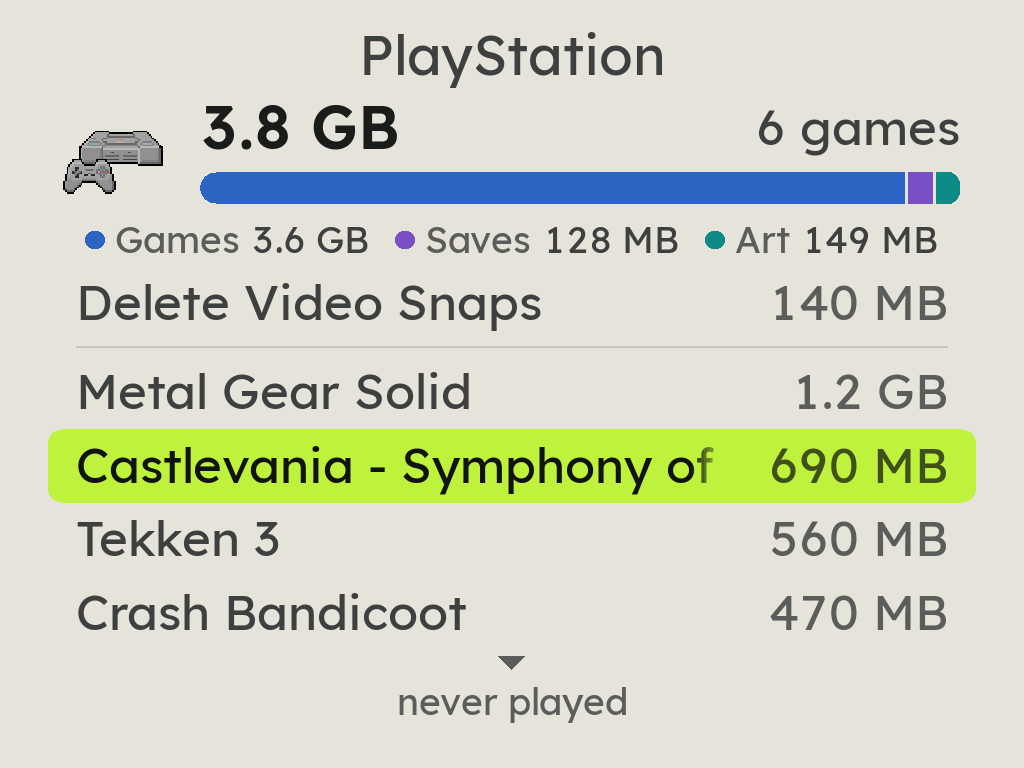
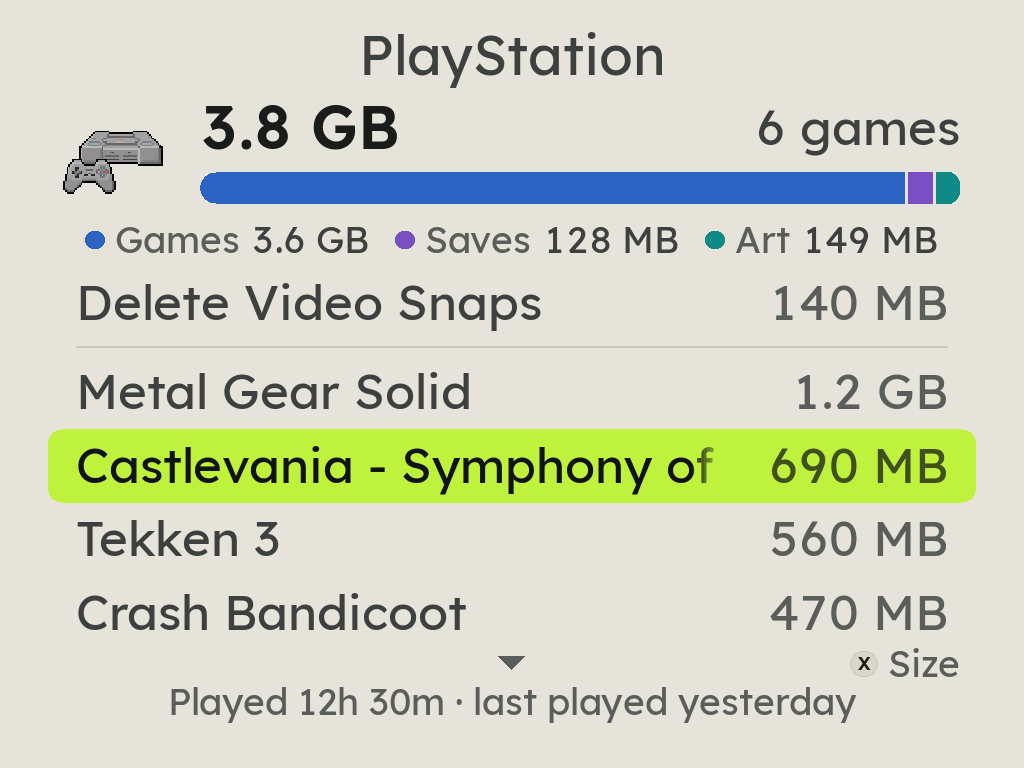
Storage's media pages and X's orders in the README, the site and DESIGN.md
A third Storage picture (Music's page), the two README shots shot again
with X's hint, and DESIGN.md 11.32's media pages and orders.

Changed region(s): [[0.1562, 0.875, 0.8438, 0.9375], [0.8438, 0.8438, 0.9375, 0.9062]]

diff --git a/site/index.html b/site/index.html
@@ -349,7 +349,7 @@
       <div><h3>Box art it finds itself</h3><p>MENU &gt; Scraper asks libretro with no account, ScreenScraper with a free one in builds that carry its developer pair, and SteamGridDB with your own key. Renamed ROMs match by checksum.</p></div>
       <div><h3>Video snaps</h3><p>Rest on a game for a second and its cover turns into a few seconds of the game, from ScreenScraper. A play mark says which games have one.</p></div>
       <div><h3>Delete a game, and only that game</h3><p>X on a game, then Delete Game: it asks first, then takes the game with its saves, states, cover and video, and the shelf moves on. A file another game still uses stays, and so does a BIOS set like neogeo.zip.</p></div>
-      <div><h3>Storage, as a phone shows it</h3><p>MENU &gt; Storage shows what fills the card in one bar, then every system by size and each system's games largest first. It suggests what can go: art of games no longer there, and save states of games not played for a year.</p></div>
+      <div><h3>Storage, as a phone shows it</h3><p>MENU &gt; Storage shows what fills the card in one bar, then every system by size and each system's games largest first. Music, Videos and Audiobooks open their albums, films and books, and X sorts any list by size, A to Z or last played. It suggests what can go: art of games no longer there, and save states of games not played for a year.</p></div>
       <div><h3>Search and Random Game</h3><p>Find any game by a few letters of its name, or let ZyperOS pick one and start it.</p></div>
       <div><h3>RetroAchievements</h3><p>Sign in on the device, under MENU &gt; Achievements. Achievements download once and then work offline, with each one's badge, a pop-up with Zyper when you unlock one, and progress counts.</p></div>
       <div><h3>Ports</h3><p>The Ports shelf installs the official PortMaster with one press, then runs its games, such as Stardew Valley and Celeste.</p></div>
@@ -463,7 +463,7 @@
           <tr><th scope="row">PortMaster</th><td class="us"><span class="ic yes" tabindex="0" role="img" aria-label="Yes. Installed from the Ports shelf with one press, over Wi-Fi, with the in-game menu over every port" data-tip="Installed from the Ports shelf with one press, over Wi-Fi, with the in-game menu over every port"><svg viewBox="0 0 24 24" aria-hidden="true"><path d="M5 12.5l4.5 4.5L19 7.5"/></svg></span></td><td><span class="ic yes" tabindex="0" role="img" aria-label="Yes. Preloaded" data-tip="Preloaded"><svg viewBox="0 0 24 24" aria-hidden="true"><path d="M5 12.5l4.5 4.5L19 7.5"/></svg></span></td><td><span class="ic yes" tabindex="0" role="img" aria-label="Yes. Included" data-tip="Included"><svg viewBox="0 0 24 24" aria-hidden="true"><path d="M5 12.5l4.5 4.5L19 7.5"/></svg></span></td><td><span class="ic unk" tabindex="0" role="img" aria-label="Unknown. No source we read says either way." data-tip="No source we read says either way.">–</span></td><td><span class="ic yes" tabindex="0" role="img" aria-label="Yes. Included" data-tip="Included"><svg viewBox="0 0 24 24" aria-hidden="true"><path d="M5 12.5l4.5 4.5L19 7.5"/></svg></span></td><td><span class="ic yes" tabindex="0" role="img" aria-label="Yes. Included" data-tip="Included"><svg viewBox="0 0 24 24" aria-hidden="true"><path d="M5 12.5l4.5 4.5L19 7.5"/></svg></span></td></tr>
           <tr><th scope="row">Rumble</th><td class="us"><span class="ic yes" tabindex="0" role="img" aria-label="Yes. Games rumble" data-tip="Games rumble"><svg viewBox="0 0 24 24" aria-hidden="true"><path d="M5 12.5l4.5 4.5L19 7.5"/></svg></span></td><td><span class="ic unk" tabindex="0" role="img" aria-label="Unknown. No source we read says either way." data-tip="No source we read says either way.">–</span></td><td><span class="ic yes" tabindex="0" role="img" aria-label="Yes. Through SDL2, with a stronger setting" data-tip="Through SDL2, with a stronger setting"><svg viewBox="0 0 24 24" aria-hidden="true"><path d="M5 12.5l4.5 4.5L19 7.5"/></svg></span></td><td><span class="ic no" tabindex="0" role="img" aria-label="No. plastron&#x27;s README: neither device has rumble" data-tip="plastron&#x27;s README: neither device has rumble"><svg viewBox="0 0 24 24" aria-hidden="true"><path d="M7 7l10 10M17 7L7 17"/></svg></span></td><td><span class="ic yes" tabindex="0" role="img" aria-label="Yes. The Pixel 2&#x27;s vibration motor is in its device tree" data-tip="The Pixel 2&#x27;s vibration motor is in its device tree"><svg viewBox="0 0 24 24" aria-hidden="true"><path d="M5 12.5l4.5 4.5L19 7.5"/></svg></span></td><td><span class="ic unk" tabindex="0" role="img" aria-label="Unknown. No source we read says either way." data-tip="No source we read says either way.">–</span></td></tr>
           <tr><th scope="row">Side lights</th><td class="us"><span class="ic yes" tabindex="0" role="img" aria-label="Yes. The battery, volume and brightness, finished transfers and achievements, each on or off in Settings &gt; Side Lights" data-tip="The battery, volume and brightness, finished transfers and achievements, each on or off in Settings &gt; Side Lights"><svg viewBox="0 0 24 24" aria-hidden="true"><path d="M5 12.5l4.5 4.5L19 7.5"/></svg></span></td><td><span class="ic unk" tabindex="0" role="img" aria-label="Unknown. No source we read says either way." data-tip="No source we read says either way.">–</span></td><td><span class="ic unk" tabindex="0" role="img" aria-label="Unknown. No source we read says either way." data-tip="No source we read says either way.">–</span></td><td><span class="ic yes" tabindex="0" role="img" aria-label="Yes. The battery" data-tip="The battery"><svg viewBox="0 0 24 24" aria-hidden="true"><path d="M5 12.5l4.5 4.5L19 7.5"/></svg></span></td><td><span class="ic yes" tabindex="0" role="img" aria-label="Yes. The battery" data-tip="The battery"><svg viewBox="0 0 24 24" aria-hidden="true"><path d="M5 12.5l4.5 4.5L19 7.5"/></svg></span></td><td><span class="ic unk" tabindex="0" role="img" aria-label="Unknown. No source we read says either way." data-tip="No source we read says either way.">–</span></td></tr>
-          <tr><th scope="row">Storage by part and by game</th><td class="us"><span class="ic yes" tabindex="0" role="img" aria-label="Yes. MENU &gt; Storage: the card in one bar by part, every system and game by size, and what can go" data-tip="MENU &gt; Storage: the card in one bar by part, every system and game by size, and what can go"><svg viewBox="0 0 24 24" aria-hidden="true"><path d="M5 12.5l4.5 4.5L19 7.5"/></svg></span></td><td><span class="ic unk" tabindex="0" role="img" aria-label="Unknown. No source we read says either way." data-tip="No source we read says either way.">–</span></td><td><span class="ic unk" tabindex="0" role="img" aria-label="Unknown. No source we read says either way." data-tip="No source we read says either way.">–</span></td><td><span class="ic unk" tabindex="0" role="img" aria-label="Unknown. No source we read says either way." data-tip="No source we read says either way.">–</span></td><td><span class="ic unk" tabindex="0" role="img" aria-label="Unknown. No source we read says either way." data-tip="No source we read says either way.">–</span></td><td><span class="ic unk" tabindex="0" role="img" aria-label="Unknown. No source we read says either way." data-tip="No source we read says either way.">–</span></td></tr>
+          <tr><th scope="row">Storage by part and by game</th><td class="us"><span class="ic yes" tabindex="0" role="img" aria-label="Yes. MENU &gt; Storage: the card in one bar by part, every system, game, album and film by size, and what can go" data-tip="MENU &gt; Storage: the card in one bar by part, every system, game, album and film by size, and what can go"><svg viewBox="0 0 24 24" aria-hidden="true"><path d="M5 12.5l4.5 4.5L19 7.5"/></svg></span></td><td><span class="ic unk" tabindex="0" role="img" aria-label="Unknown. No source we read says either way." data-tip="No source we read says either way.">–</span></td><td><span class="ic unk" tabindex="0" role="img" aria-label="Unknown. No source we read says either way." data-tip="No source we read says either way.">–</span></td><td><span class="ic unk" tabindex="0" role="img" aria-label="Unknown. No source we read says either way." data-tip="No source we read says either way.">–</span></td><td><span class="ic unk" tabindex="0" role="img" aria-label="Unknown. No source we read says either way." data-tip="No source we read says either way.">–</span></td><td><span class="ic unk" tabindex="0" role="img" aria-label="Unknown. No source we read says either way." data-tip="No source we read says either way.">–</span></td></tr>
           <tr><th scope="row">Video previews on the shelf</th><td class="us"><span class="ic yes" tabindex="0" role="img" aria-label="Yes. Rest on a game for a second and its cover plays a few seconds of it, from ScreenScraper" data-tip="Rest on a game for a second and its cover plays a few seconds of it, from ScreenScraper"><svg viewBox="0 0 24 24" aria-hidden="true"><path d="M5 12.5l4.5 4.5L19 7.5"/></svg></span></td><td><span class="ic unk" tabindex="0" role="img" aria-label="Unknown. No source we read says either way." data-tip="No source we read says either way.">–</span></td><td><span class="ic unk" tabindex="0" role="img" aria-label="Unknown. No source we read says either way." data-tip="No source we read says either way.">–</span></td><td><span class="ic unk" tabindex="0" role="img" aria-label="Unknown. No source we read says either way." data-tip="No source we read says either way.">–</span></td><td><span class="ic unk" tabindex="0" role="img" aria-label="Unknown. No source we read says either way." data-tip="No source we read says either way.">–</span></td><td><span class="ic unk" tabindex="0" role="img" aria-label="Unknown. No source we read says either way." data-tip="No source we read says either way.">–</span></td></tr>
           <tr><th scope="row">Charge limit</th><td class="us"><span class="ic yes" tabindex="0" role="img" aria-label="Yes. Settings &gt; Charge Limit stops charging at 80, 85 or 90%" data-tip="Settings &gt; Charge Limit stops charging at 80, 85 or 90%"><svg viewBox="0 0 24 24" aria-hidden="true"><path d="M5 12.5l4.5 4.5L19 7.5"/></svg></span></td><td><span class="ic unk" tabindex="0" role="img" aria-label="Unknown. No source we read says either way." data-tip="No source we read says either way.">–</span></td><td><span class="ic unk" tabindex="0" role="img" aria-label="Unknown. No source we read says either way." data-tip="No source we read says either way.">–</span></td><td><span class="ic unk" tabindex="0" role="img" aria-label="Unknown. No source we read says either way." data-tip="No source we read says either way.">–</span></td><td><span class="ic unk" tabindex="0" role="img" aria-label="Unknown. No source we read says either way." data-tip="No source we read says either way.">–</span></td><td><span class="ic unk" tabindex="0" role="img" aria-label="Unknown. No source we read says either way." data-tip="No source we read says either way.">–</span></td></tr>
           <tr><th scope="row">Charging screen when off</th><td class="us"><span class="ic yes" tabindex="0" role="img" aria-label="Yes. A charger plugged in while it is off shows the charge and the time to full; hold POWER to start" data-tip="A charger plugged in while it is off shows the charge and the time to full; hold POWER to start"><svg viewBox="0 0 24 24" aria-hidden="true"><path d="M5 12.5l4.5 4.5L19 7.5"/></svg></span></td><td><span class="ic unk" tabindex="0" role="img" aria-label="Unknown. No source we read says either way." data-tip="No source we read says either way.">–</span></td><td><span class="ic unk" tabindex="0" role="img" aria-label="Unknown. No source we read says either way." data-tip="No source we read says either way.">–</span></td><td><span class="ic unk" tabindex="0" role="img" aria-label="Unknown. No source we read says either way." data-tip="No source we read says either way.">–</span></td><td><span class="ic unk" tabindex="0" role="img" aria-label="Unknown. No source we read says either way." data-tip="No source we read says either way.">–</span></td><td><span class="ic unk" tabindex="0" role="img" aria-label="Unknown. No source we read says either way." data-tip="No source we read says either way.">–</span></td></tr>

diff --git a/tools/readme-shots.py b/tools/readme-shots.py
@@ -87,6 +87,8 @@ SHOTS={
     # full, and the demonstration card's PlayStation page
     'storage':('demo','PS1',['--storage','main']),
     'storage-system':('demo','PS1',['--storage','system']),
+    # ...and its Music page: albums by size, X's order beside the list
+    'storage-music':('demo','PS1',['--storage','music']),
     'empty':('empty','',['--ways','usb']),
     'tour-theme':('demo','PS1',['--tour','theme','2000','--tour-music','--tour-pick','0']),
     'tour-home':('demo','PS1',['--tour','home','2000','--tour-music','--tour-pick','1']),

diff --git a/README.md b/README.md
@@ -74,7 +74,7 @@ The name is also two words in one: **zippy** and **hyper**. Games start the mome
 - **RetroAchievements:** sign in on the device, under **MENU > Achievements**. A game's achievements download once and then work offline, and anything you unlock offline is sent later. Each one has its badge in the list and in the pop-up when you unlock it, a trophy standing in until the badge is on the card, Zyper cheers from the pop-up, and a count like "5 / 10" pops up as you get closer.
 - **Box art the device finds itself,** in **MENU > Scraper**: from libretro's collection with no account; from ScreenScraper with a free account, which brings each game's name, year, genre and synopsis too, in a build made with ScreenScraper's developer pair (the page says `not in this build` otherwise); and from SteamGridDB, with your own free key typed or pasted, for what neither has. Renamed ROM packs are matched by checksum, and each game shows under its proper name with its file left as it is. Or add your own.
 - **Delete a game from the handheld:** press X on a game and choose **Delete Game**. It asks first, naming the game, with the cursor on Cancel. The game's file or files go (a disc set's folder, a `.cue` with its tracks, an arcade set), with its saves, save states, cover, video snap, cached achievements, details and play time, and the shelf moves on to the next game. A file another game still uses stays, and so does a BIOS set like `neogeo.zip`.
-- **Storage, as a phone shows it:** **MENU > Storage** shows what fills the card in one bar, games, saves, art, media and ZyperOS, then every system and folder by size. A system's page lists its games largest first, each with the room Delete Game would give back. Two recommendations clear the covers and video snaps of games no longer on the card, and the save states of games you have not played for a year (the saves stay). It opens at once: the sizes are measured in the background and kept on the card ([below](#what-fills-my-card)).
+- **Storage, as a phone shows it:** **MENU > Storage** shows what fills the card in one bar, games, saves, art, media and ZyperOS, then every system and folder by size. A system's page lists its games largest first, each with the room Delete Game would give back; Music, Videos and Audiobooks open their albums, films and books the same way, and A deletes one. **X** sorts any of these lists by size, A to Z or last played. Two recommendations clear the covers and video snaps of games no longer on the card, and the save states of games you have not played for a year (the saves stay). It opens at once: the sizes are measured in the background and kept on the card ([below](#what-fills-my-card)).
 - **Video snaps:** rest on a game for a second, while a bar under its cover fills, and the cover turns into a few seconds of the game itself, from ScreenScraper. A play mark on a cover says its game has one. **MENU > Scraper > Video Snaps** turns them on, per console, and their sound starts muted.
 - **Wi-Fi File Transfer:** move games, music, audiobooks, videos, saves and covers on and off the card from any browser on your Wi-Fi, behind a PIN, on [a page made for it](#the-file-transfer-page), on a computer or a phone. With no Wi-Fi network around, the handheld makes [its own](#no-wi-fi-network-around), for a phone that scans the QR code on the screen. Or use the USB cable, with no Wi-Fi at all, as USB File Transfer. A transfer keeps going while you go back to the shelf, with a mark in the corner; B asks before it stops one halfway; the page shows the time left, checks the room on the card first, and its Settings page updates ZyperOS over the cable.
 - **USB that only charges until you say so:** plug in a computer and the Pixel 2 asks whether it should charge, open USB File Transfer, or (on development images) bring up SSH. [Developer mode](#developer-mode) brings SSH up on a release image.
@@ -120,7 +120,7 @@ The GKD Pixel 2 has several operating systems to choose from. This is ZyperOS be
 | **PortMaster** | Yes, installed from the Ports shelf with one press, with the in-game menu over every port | Yes | Yes | — | Yes | Yes |
 | **Rumble** | Yes | — | Yes | No | Yes | — |
 | **Side lights** | Battery, volume and brightness, finished transfers, achievements: each on or off | — | — | Battery | Battery | — |
-| **Storage by part and by game** | Yes, with recommendations | — | — | — | — | — |
+| **Storage by part and by game** | Yes, with recommendations and media pages | — | — | — | — | — |
 | **Video previews on the shelf** | Yes | — | — | — | — | — |
 | **Charge limit** | 80, 85 or 90% | — | — | — | — | — |
 | **Charging screen when off** | Yes | — | — | — | — | — |
@@ -465,7 +465,7 @@ With ScreenScraper linked, **MENU > Scraper > Video Snaps** can fetch each game'
 <details>
 <summary><b>What fills my card?</b></summary>
 
-**MENU > Storage**, just above System Update. The bar shows the card by part: games, saves and save states, art (covers and video snaps), media (music, videos, audiobooks), ZyperOS itself, and the rest. Under it, every system and folder by size; A on a system opens its page, with its games largest first. A on a game there asks Delete Game's question. The first time, Zyper measures the card while you wait; after that the page opens at once and updates itself.
+**MENU > Storage**, just above System Update. The bar shows the card by part: games, saves and save states, art (covers and video snaps), media (music, videos, audiobooks), ZyperOS itself, and the rest. Under it, every system and folder by size; A on a system opens its page, with its games largest first. A on a game there asks Delete Game's question. A on Music, Videos or Audiobooks opens its albums, films and books by size, with your own menu music and the covers and playlists beside them; A on one asks before it goes, with the room it gives back. **X** changes the order of the list you are on: by size, A to Z, or last played (not on Music, Videos and Audiobooks, where nothing records what was played). Each list keeps its order. The first time, Zyper measures the card while you wait; after that the page opens at once and updates itself.
 
 <div align="center">
 
@@ -473,6 +473,7 @@ With ScreenScraper linked, **MENU > Scraper > Video Snaps** can fetch each game'
   <tr>
     <td align="center"><img src="res/readme/storage.png" width="320" alt="MENU > Storage: 120.5 GB used and 7.4 GB free of 128 GB, a bar by part, two recommendations, then PlayStation, Videos and Sega CD by size"><br><sub>The card by part, then by size</sub></td>
     <td align="center"><img src="res/readme/storage-system.png" width="320" alt="PlayStation's page: 3.8 GB in six games, its bar of games, saves and art, Delete Video Snaps, then its games largest first"><br><sub>A system's games, largest first</sub></td>
+    <td align="center"><img src="res/readme/storage-music.png" width="320" alt="Music's page: 5.2 GB in 318 songs, then its albums largest first, and X beside the list for the order"><br><sub>Music's albums; X changes the order</sub></td>
   </tr>
 </table>
 

diff --git a/DESIGN.md b/DESIGN.md
@@ -2126,6 +2126,46 @@ one. On every system's page a last row, **Other Files**, holds what no game
 on it owns (art of games gone, a loose file), so the rows come to the
 system's whole. *(2026-11-08, from Tarik's Pixel 2.)*
 
+**A media folder's page**: A on Music, Videos or Audiobooks *(2026-11-08:
+"why can't I explore videos/songs in storage?")*. Its name as the heading,
+its folder picture from the File Transfer page at the left (the first of its
+two frames), its size in **title** and its songs, videos or books at the
+right, and the bar its share of the card. Its rows are what MP4's shelf calls
+an album (src/muselib.h): an album or a book in an artist's or an author's
+folder, a folder at the top with no folder inside or with tracks of its own,
+a track at the top; in Videos a film at the top, or a folder of them (a
+series) whole. Each by its folder's name or its file's without the
+extension; under the list "The Lowlights · 40 songs", "Jane Austen · 61
+files", or a film's file name. Music's has **Menu Music** too, the menu's
+own tracks in `Roms/BGM`, which the card's Music row counts; A on it is
+**deny** (MENU > Menu Music is where they are chosen). A last **Other
+Files** holds what none of the rows does - a cover beside the albums, a
+playlist, a hidden file - so the rows come to the folder's whole. A on an
+album, a film or a book asks as Delete Game does, under the page's name:
+"Delete Neon Harbor and everything in it? 812 MB. This cannot be undone."
+(a file: "Delete Sintel? 4.2 GB."); MP4 stops first if it plays from it, and
+the shelf is read again after. The walk finds the rows with the roots'
+sizes, before the systems, from the cache too, so a page opened at once has
+them; a delete takes its row and its bytes out at once. B goes back to the
+card, on the folder's row.
+
+**The order**, X on every list of the page: the card's, a system's (the
+Ports shelf's with its folders), a media folder's *(2026-11-08: "can we have
+like press X to change sorting? sort by size, by alphabetic, by last
+played")*. X steps Size, A to Z, Last Played and round, with **move**'s
+sound, and the cursor stays on its row. Size is the largest first; A to Z
+by the row's name, case not counting; Last Played the newest first (a
+system's by its newest game), then what was never played by size. A media
+folder has no Last Played, as MP4 keeps no record of what was played, so X
+there steps Size and A to Z. Every order falls back to the others and then
+to the row's place, so a list never reshuffles between two draws (src/sort.h's
+rule). The recommendations stay first on the card, and Delete Video Snaps on
+a system's page. Each list keeps its order, as Sort By keeps a shelf's: the
+card's, each system's by its tag, each media folder's. Under the list at the
+right, on the more-rows mark's line, X's glyph and the order it is now
+("Size", "A to Z", "Last Played") in **meta** **text-dim**: the button and
+what it is, as the keyboard's action row names its keys (11.5).
+
 The page is a base, as Muse's shelf is: MENU's panel leaves over it as it
 opens, and a panel opened on it - a question, "Deleting...", a result - comes
 from nothing, and leaves over it when it closes. *(2026-11-08, on the Pixel
@@ -2162,10 +2202,12 @@ striped where the walk has not been, and Zyper, his head cocked, stands over
 "Measuring the card", the system it is in, "PlayStation · 41 of 116", and
 "Only the first time. After this it opens at once."
 
-Host shots: `--storage main|system|art|states|delete|done|first [ROW]`, on a
-stand-in card of 128 GB nearly full; `tools/storage-shots.py` takes them all
-in both themes and every language. The numbers and the cache are held by
-`make check-storage`.
+Host shots: `--storage main|system|art|states|delete|done|first|music|videos|books|media-delete|videos-delete [ROW]`
+and `--storage-sort size|az|last`, on a stand-in card of 128 GB nearly full;
+`tools/storage-shots.py` takes them all in both themes and every language.
+The numbers, the cache, the media pages' rows and their deletes, and X's
+orders are held by `make check-storage`; what fits, in every language, by
+`make check-i18n-shots`.
 
 ---
 
